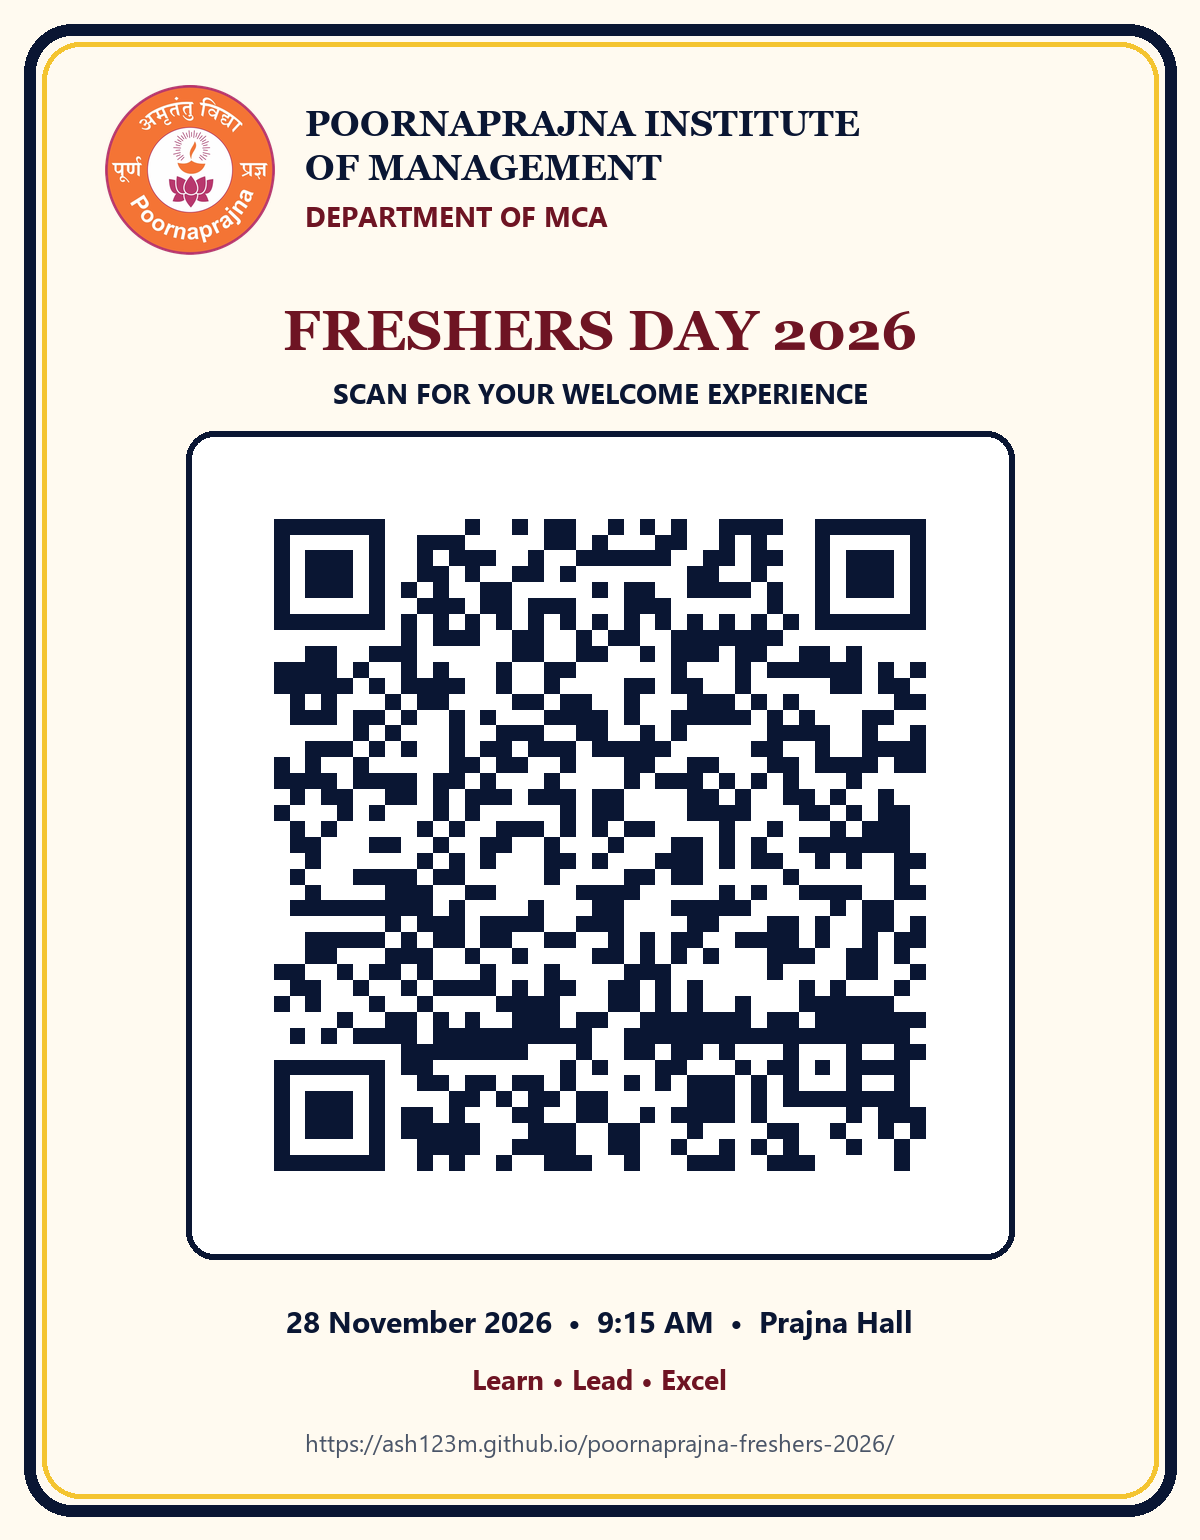
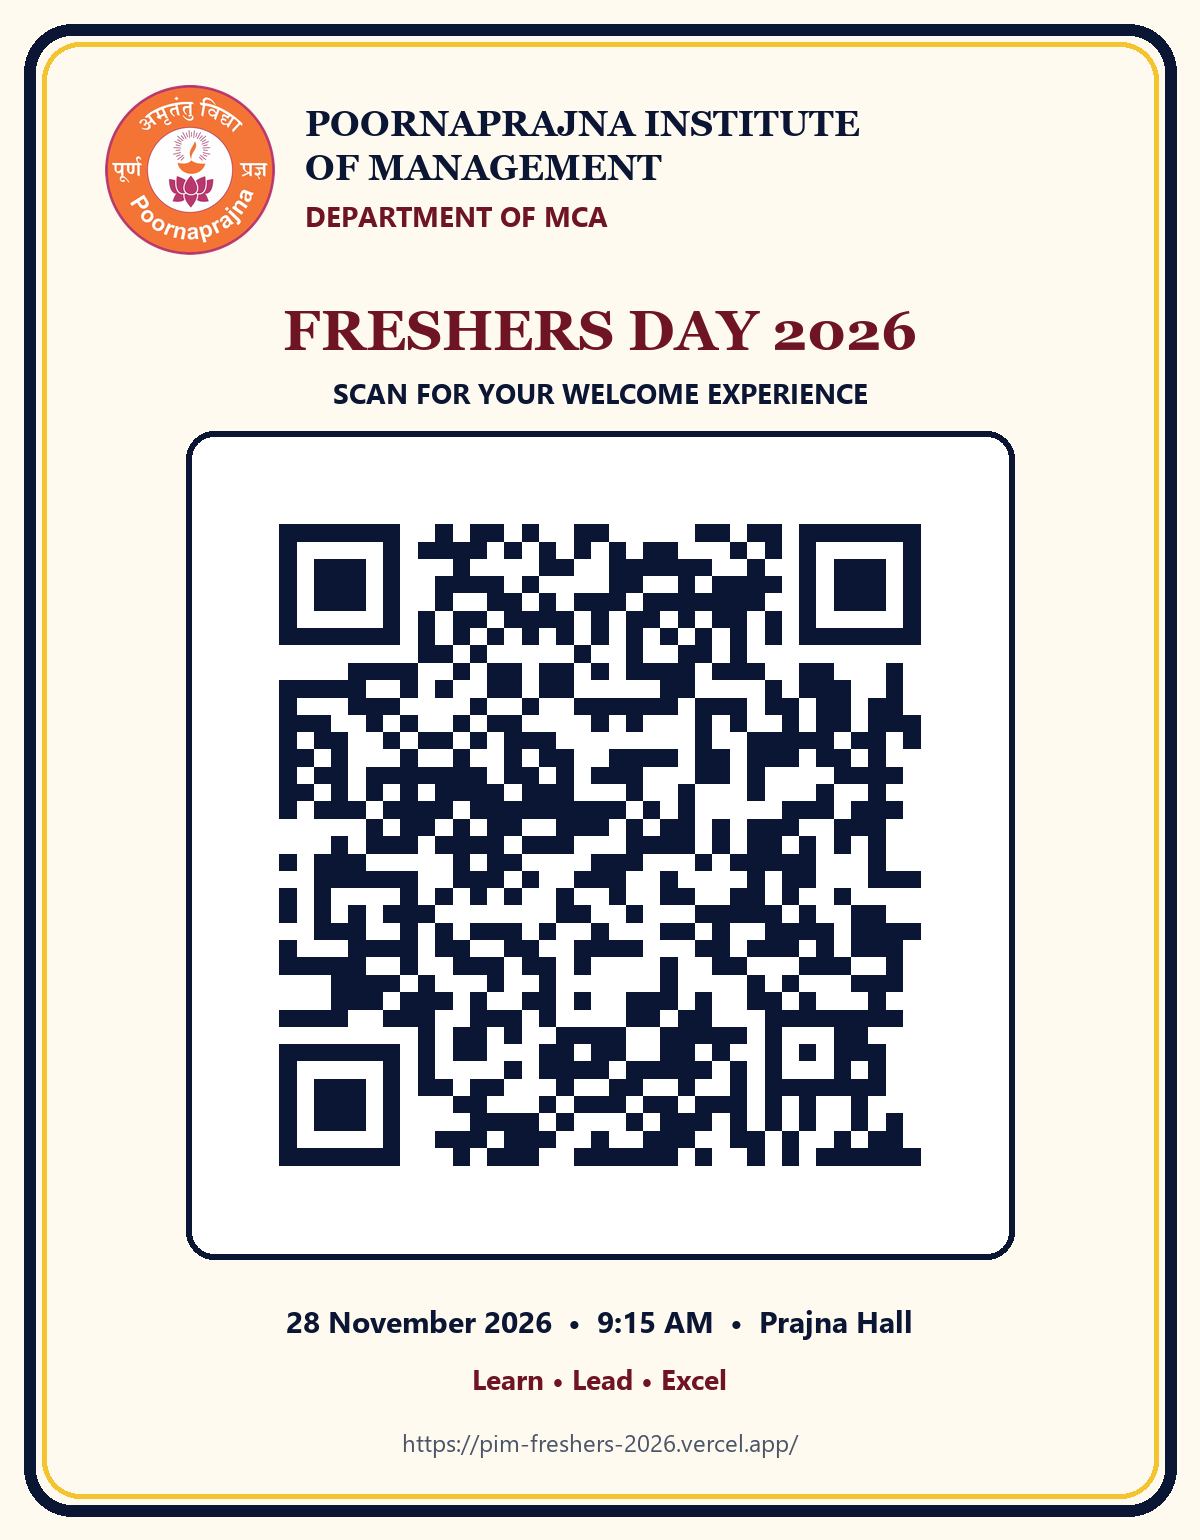
Add files via upload

Changed region(s): [[0.2158, 0.3117, 0.7708, 0.7792], [0.2775, 0.9351, 0.6783, 0.9662]]

diff --git a/api/_lib/db.js b/api/_lib/db.js
@@ -4,16 +4,38 @@ const { Pool } = require('pg');
 
 let tableReady = false;
 
+function sanitizeConnectionString(raw) {
+  let s = String(raw || '').trim();
+  // Handle users pasting Neon's full CLI snippet: psql 'postgresql://...'
+  if (/^psql\s+/i.test(s)) {
+    s = s.replace(/^psql\s+/i, '').trim();
+  }
+  if ((s.startsWith("'") && s.endsWith("'")) || (s.startsWith('"') && s.endsWith('"'))) {
+    s = s.slice(1, -1).trim();
+  }
+  // pg v8 can fail when Neon includes channel_binding=require in the copied URL
+  s = s.replace(/([?&])channel_binding=[^&]*&?/gi, '$1').replace(/[?&]$/, '');
+  return s;
+}
+
 function getPool() {
   if (global.__pimPgPool) return global.__pimPgPool;
-  const connStr =
+  const rawConnStr =
     process.env.DATABASE_URL ||
     process.env.POSTGRES_URL ||
     process.env.POSTGRES_PRISMA_URL ||
     process.env.NEON_DATABASE_URL;
 
+  const connStr = sanitizeConnectionString(rawConnStr);
   if (!connStr) {
-    throw new Error('Missing DATABASE_URL / POSTGRES_URL environment variable.');
+    const err = new Error('DATABASE_URL environment variable is missing.');
+    err.publicCode = 'MISSING_DATABASE_URL';
+    throw err;
+  }
+  if (!/^postgres(ql)?:\/\//i.test(connStr)) {
+    const err = new Error('DATABASE_URL must start with postgresql:// or postgres://.');
+    err.publicCode = 'INVALID_DATABASE_URL';
+    throw err;
   }
 
   const needsSsl = !/localhost|127\.0\.0\.1/i.test(connStr);

diff --git a/index.html b/index.html
@@ -9,10 +9,10 @@
 
   <!-- Open Graph / WhatsApp Link Preview -->
   <meta property="og:type" content="website">
-  <meta property="og:url" content="https://ash123m.github.io/poornaprajna-freshers-2026/">
+  <meta property="og:url" content="https://pim-freshers-2026.vercel.app/">
   <meta property="og:title" content="Welcome Freshers 2026 | Poornaprajna Institute of Management – Department of MCA">
   <meta property="og:description" content="A New Chapter Begins! Join us on 28 November 2026 at 9:15 AM in Prajna Hall. Together Towards a Brighter Future.">
-  <link rel="canonical" href="https://ash123m.github.io/poornaprajna-freshers-2026/">
+  <link rel="canonical" href="https://pim-freshers-2026.vercel.app/">
 
   <!-- Favicon & PWA -->
   <link rel="icon" type="image/png" href="assets/logo.png">

diff --git a/qr.html b/qr.html
@@ -314,7 +314,7 @@
       const btnSvg = document.getElementById('btn-download-svg');
       const btnPrint = document.getElementById('btn-print-qr');
 
-      const FALLBACK_LIVE_URL = 'https://ash123m.github.io/poornaprajna-freshers-2026/';
+      const FALLBACK_LIVE_URL = 'https://pim-freshers-2026.vercel.app/';
       const currentLive = window.location.href.replace(/qr\.html.*$/i, '');
       const isLocal = /^(http:\/\/)?(localhost|127\.0\.0\.1|0\.0\.0\.0|\[::1\])/i.test(window.location.origin) || window.location.protocol === 'file:';
       const targetUrl = isLocal ? FALLBACK_LIVE_URL : currentLive;

diff --git a/api/checkin.js b/api/checkin.js
@@ -113,6 +113,10 @@ module.exports = async function handler(req, res) {
     });
   } catch (err) {
     console.error('Check-in error:', err);
-    return sendJson(res, 500, { ok: false, error: 'Server error while saving check-in.' });
+    const detail = err?.publicCode || err?.code || '';
+    const msg = detail
+      ? `Server error while saving check-in (${detail}).`
+      : 'Server error while saving check-in.';
+    return sendJson(res, 500, { ok: false, error: msg });
   }
 };

diff --git a/app.js b/app.js
@@ -815,7 +815,7 @@
   function getCleanSiteUrl() {
     return window.location.protocol === 'https:'
       ? `${window.location.origin}${window.location.pathname}`
-      : 'https://ash123m.github.io/poornaprajna-freshers-2026/';
+      : 'https://pim-freshers-2026.vercel.app/';
   }
 
   function updateShareLinks(studentFullName) {
